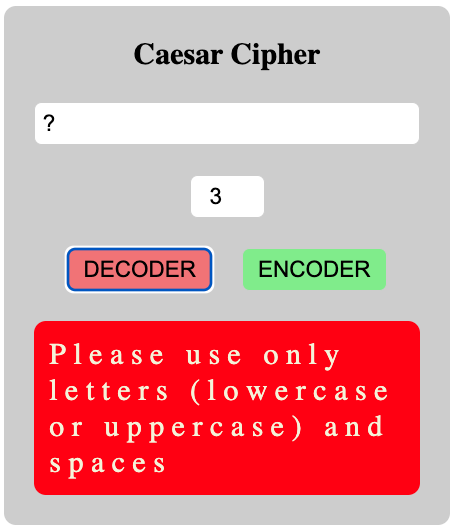
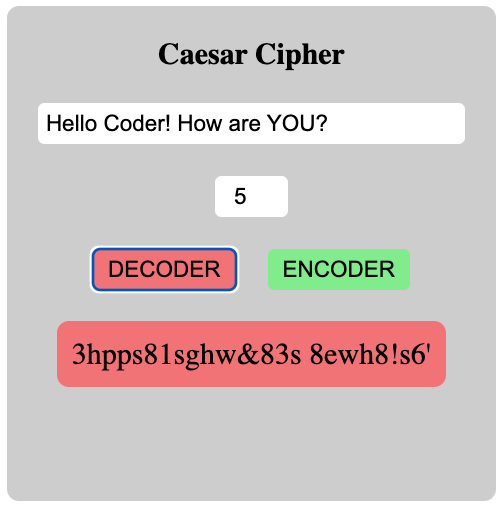
new pics

diff --git a/assets/js/main.js b/assets/js/main.js
@@ -4,26 +4,32 @@ const textInput = document.querySelector('[data-js="text"]');
 const keyInput = document.querySelector('[data-js="key"]');
 const output = document.querySelector('[data-js="output"]');
 
-// 1.a Save Alphabet
+// 1.a Save array with the acepted characters
 
 const plaintext = [
+  "7",
   "a",
   "b",
+  "2",
   "c",
   "d",
   "e",
+  "9",
   "f",
+  "1",
   "g",
   "h",
   "i",
   "j",
   "k",
   "l",
+  "3",
   "m",
   "n",
   "o",
   "p",
   "q",
+  "5",
   "r",
   "s",
   "t",
@@ -32,7 +38,26 @@ const plaintext = [
   "w",
   "x",
   "y",
+  "6",
   "z",
+  " ",
+  "?",
+  "!",
+  "#",
+  "*",
+  "8",
+  "'",
+  "&",
+  "%",
+  "=",
+  ":",
+  "0",
+  ";",
+  ".",
+  ",",
+  "-",
+  "_",
+  "4",
 ];
 
 // console.log(plaintext.length); //26 -> last Index 25

diff --git a/README.md b/README.md
@@ -12,12 +12,13 @@ Plaintext alphabet: a b c d e f g h i j k l m n o p q r s t u v w x y z
 
 Ciphertext alphabet: d e f g h i j k l m n o p q r s t u v w x y z a b c
 
-The word "test" with key 3 is "whvw"
+The word "test" with key 3 is "whvw" in this plaintext alphabet
 
-The word "abc xyz" with key 3 is "def abc"
+The word "abc xyz" with key 3 is "def abc" in this plaintext alphabet
+
+I use a extended version of the Alphabet, with Symbols & numbers
 
   <div>
-    <img src="./assets/img/readme1.png" alt="readme pic" width="250px">
-    <img src="./assets/img/readme2.png" alt="readme pic" width="250px">
-    <img src="./assets/img/readme3.png" alt="readme pic" width="250px">
+    <img src="./assets/img/readme1.png" alt="readme pic" width="300px">
+    <img src="./assets/img/readme2.png" alt="readme pic" width="300px">
   </div>
